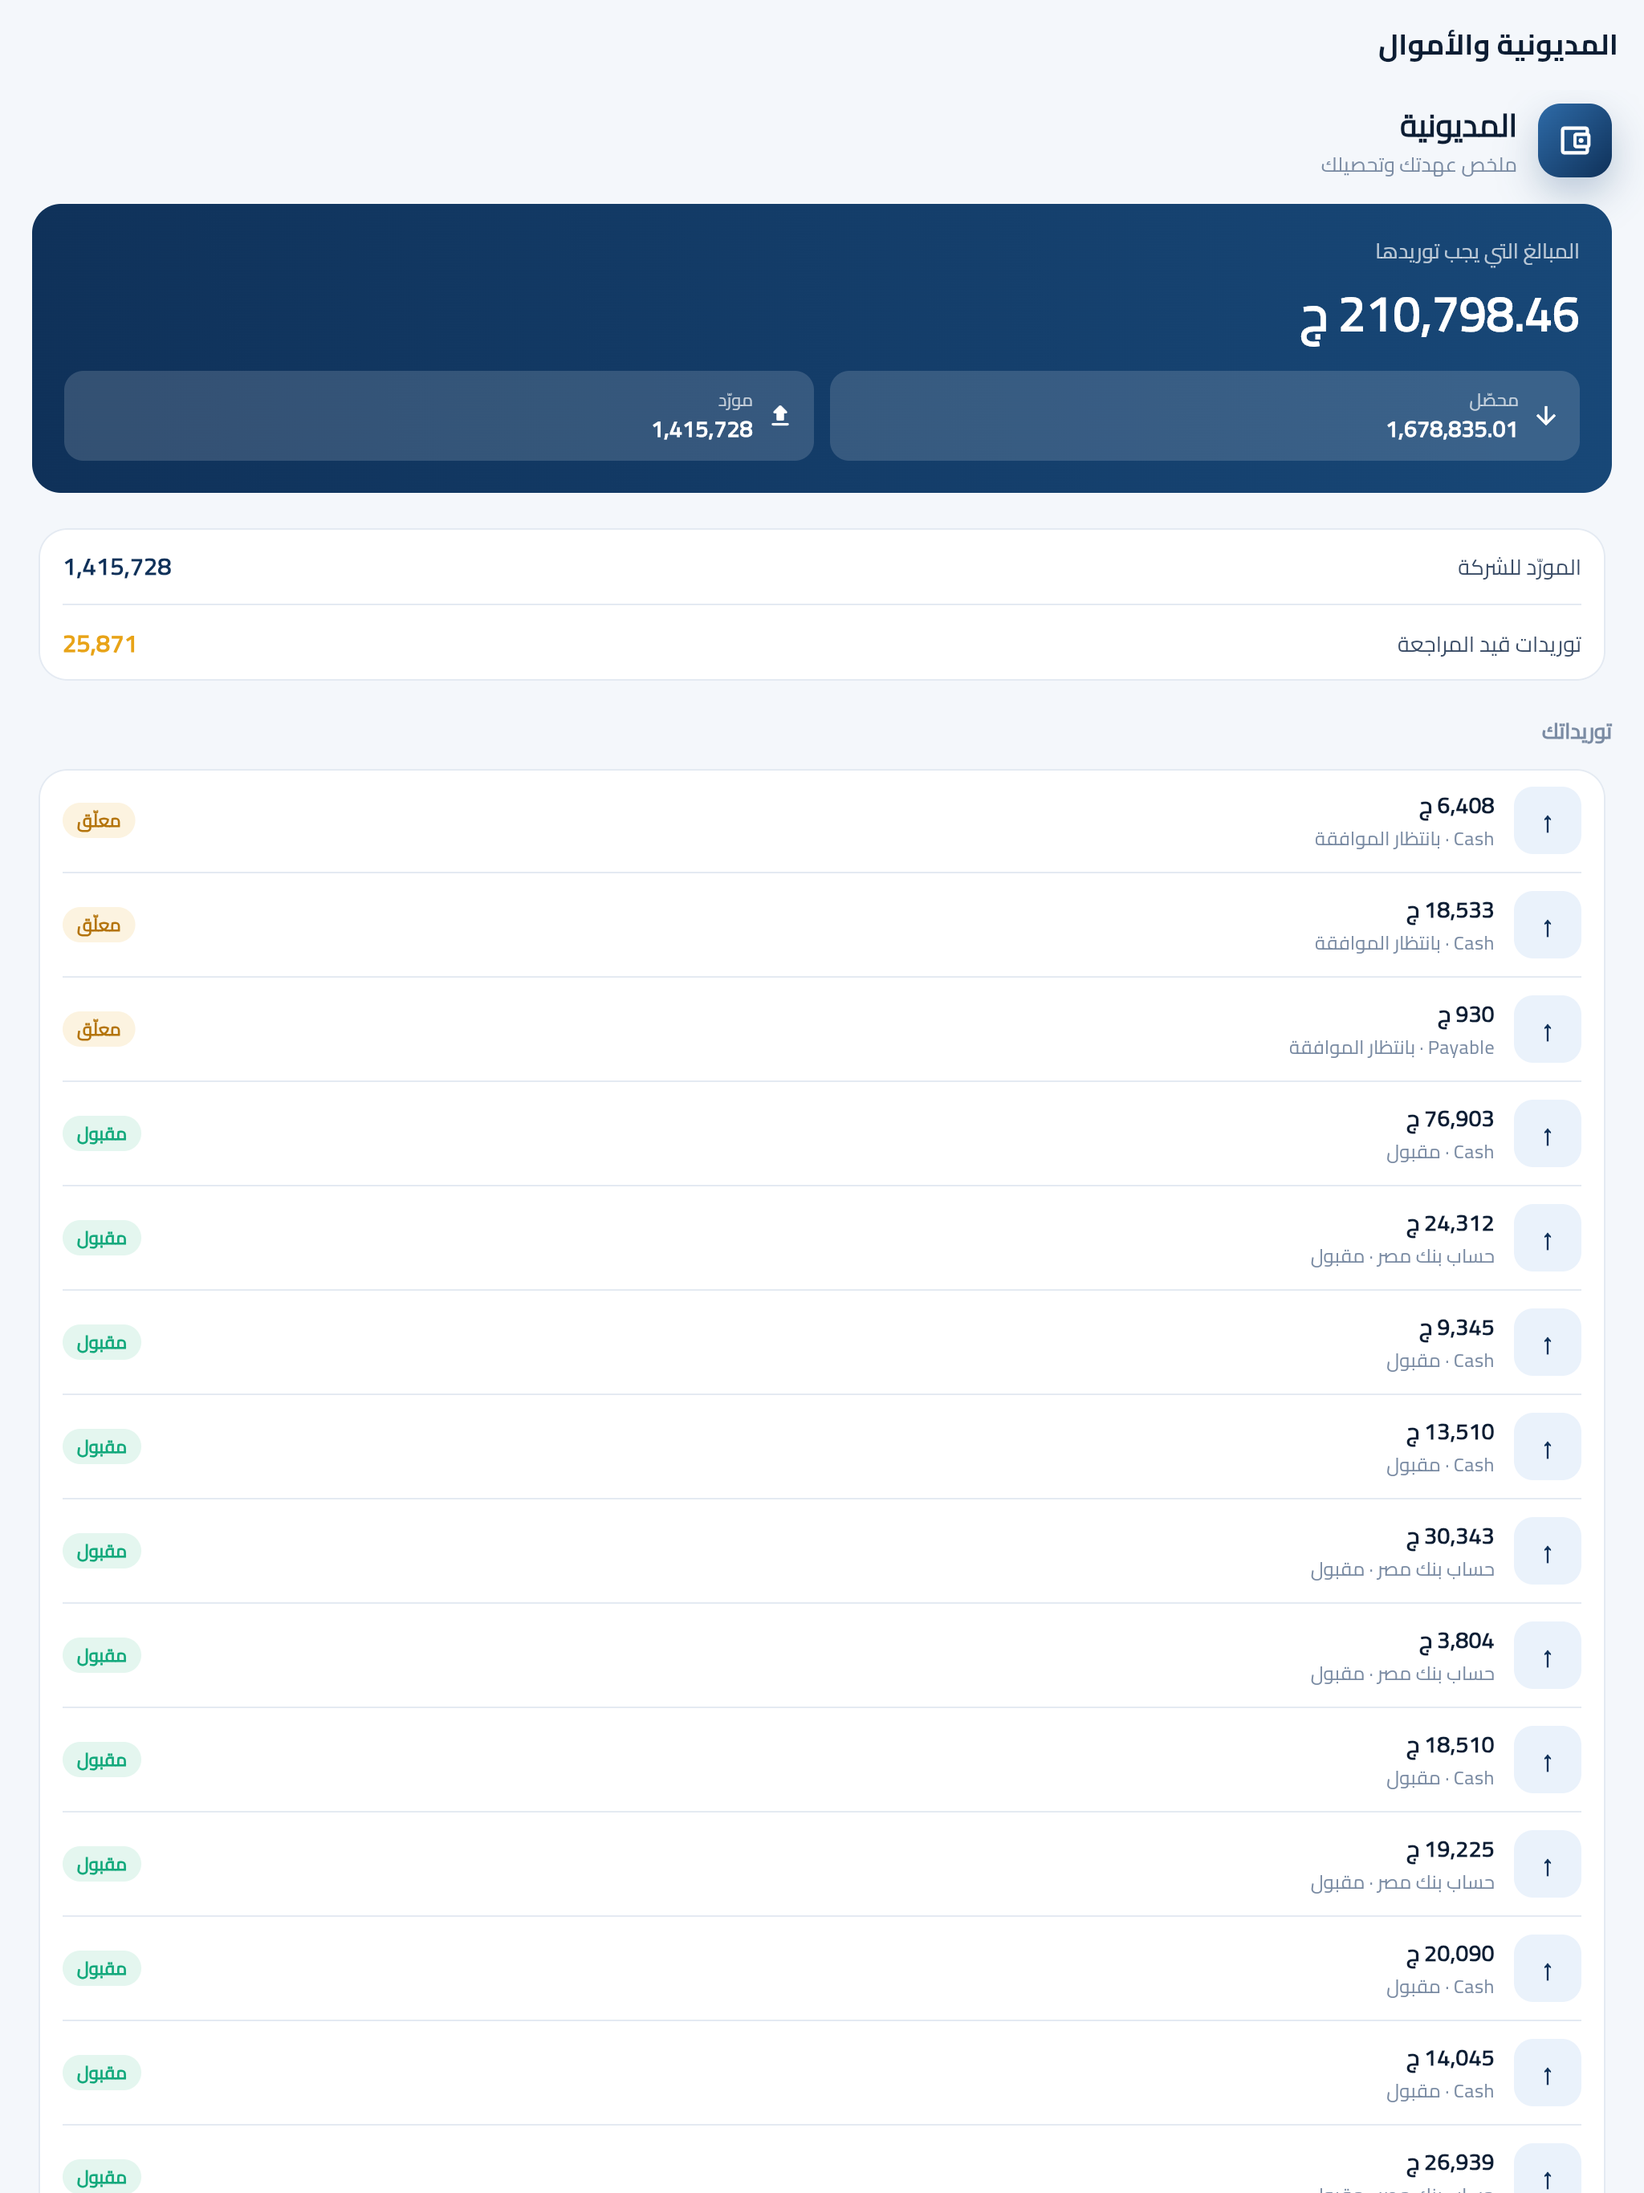
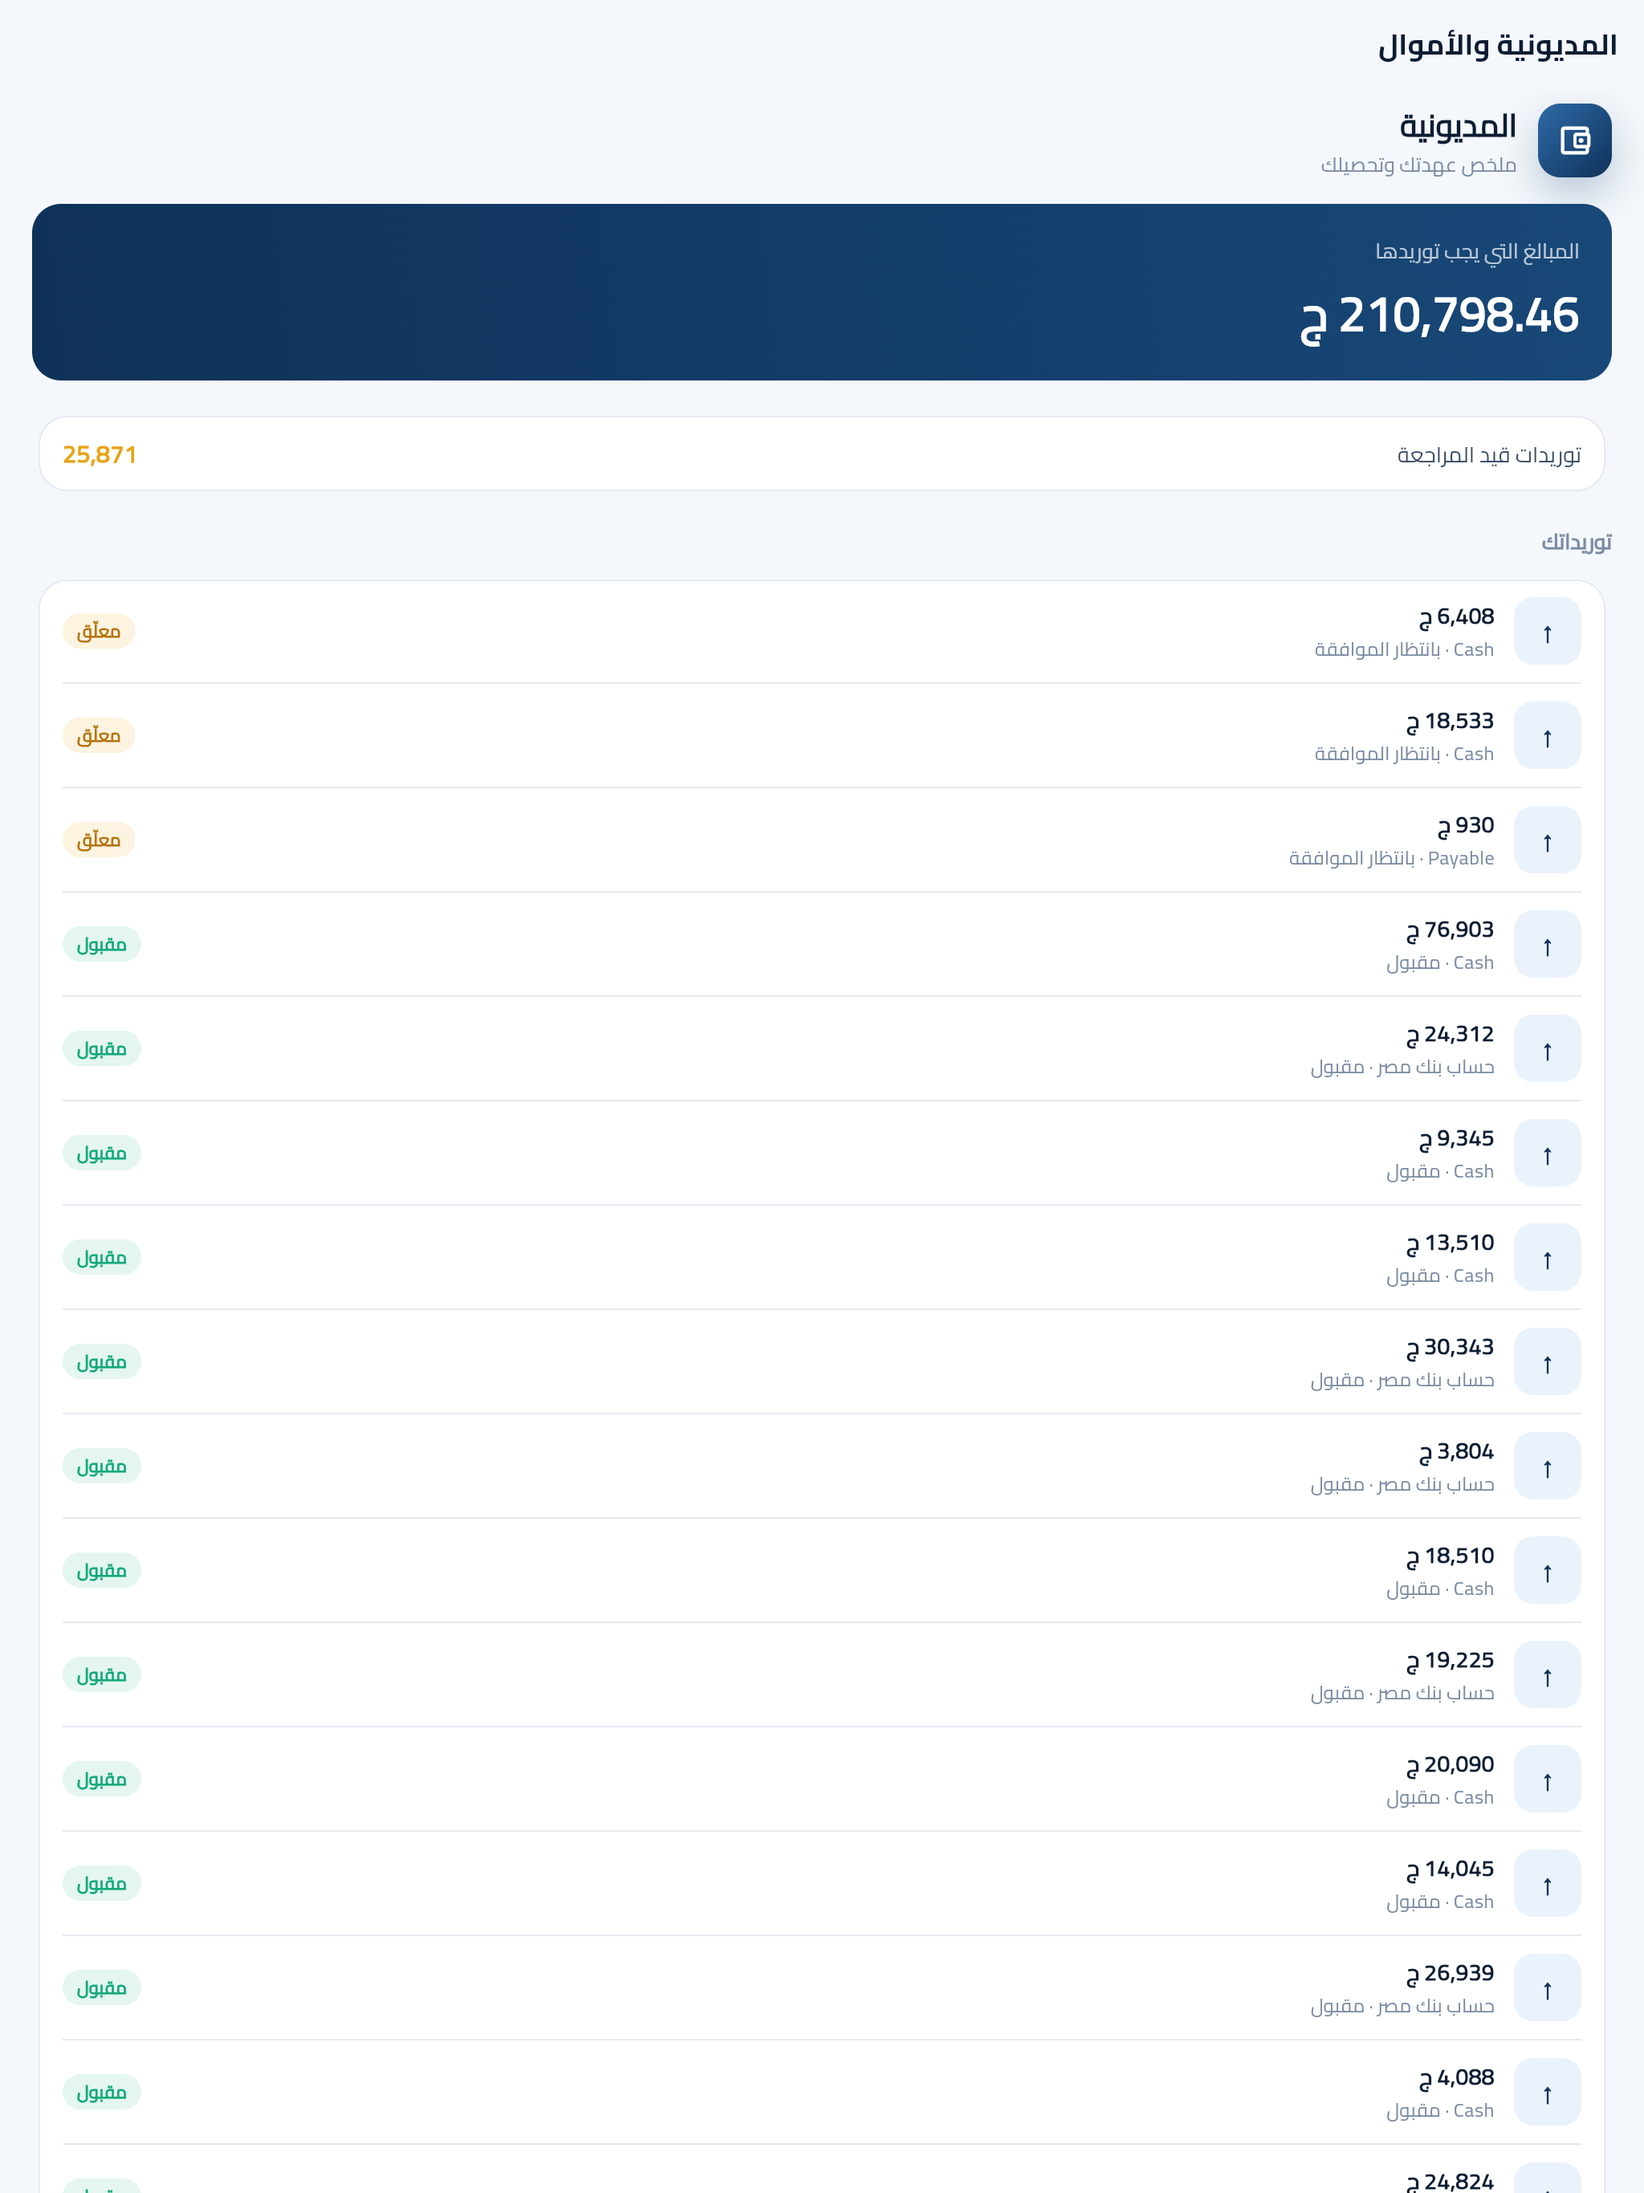
assaasd

Changed region(s): [[0.0, 0.1556, 1.0, 1.0]]

diff --git a/fieldforce/lib/features/collections/fund_list_screen.dart b/fieldforce/lib/features/collections/fund_list_screen.dart
@@ -133,14 +133,6 @@ class _FundListScreenState extends State<FundListScreen> {
                       fontSize: 30,
                       fontWeight: FontWeight.w800,
                       fontFeatures: [FontFeature.tabularFigures()])),
-              const SizedBox(height: 14),
-              Row(
-                children: [
-                  _pill(Icons.arrow_downward, 'محصّل', _money(c.collected)),
-                  const SizedBox(width: 10),
-                  _pill(Icons.upload_rounded, 'مورّد', _money(c.deposited)),
-                ],
-              ),
             ],
           ),
         ),
@@ -151,9 +143,6 @@ class _FundListScreenState extends State<FundListScreen> {
             padding: const EdgeInsets.symmetric(horizontal: 15),
             child: Column(
               children: [
-                _line('المورّد للشركة', _money(c.deposited),
-                    AppColors.primaryDeep),
-                const Divider(height: 1, color: AppColors.line),
                 _line('توريدات قيد المراجعة', _money(c.pending),
                     AppColors.warn),
               ],
@@ -216,42 +205,6 @@ class _FundListScreenState extends State<FundListScreen> {
               style: const TextStyle(fontSize: 13.5, color: AppColors.inkSoft)),
           MoneyText(value, size: 15, color: color),
         ],
-      ),
-    );
-  }
-
-  Widget _pill(IconData icon, String label, String value) {
-    return Expanded(
-      child: Container(
-        padding: const EdgeInsets.symmetric(horizontal: 12, vertical: 10),
-        decoration: BoxDecoration(
-          color: Colors.white.withValues(alpha: 0.15),
-          borderRadius: BorderRadius.circular(12),
-        ),
-        child: Row(
-          children: [
-            Icon(icon, color: Colors.white, size: 18),
-            const SizedBox(width: 8),
-            Expanded(
-              child: Column(
-                crossAxisAlignment: CrossAxisAlignment.start,
-                children: [
-                  Text(label,
-                      style:
-                          const TextStyle(color: Colors.white70, fontSize: 11)),
-                  Text(value,
-                      maxLines: 1,
-                      overflow: TextOverflow.ellipsis,
-                      style: const TextStyle(
-                          color: Colors.white,
-                          fontSize: 14,
-                          fontWeight: FontWeight.w700,
-                          fontFeatures: [FontFeature.tabularFigures()])),
-                ],
-              ),
-            ),
-          ],
-        ),
       ),
     );
   }
